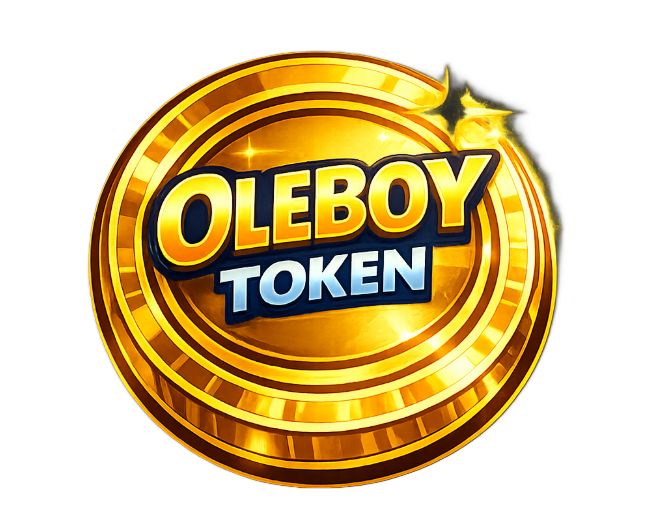
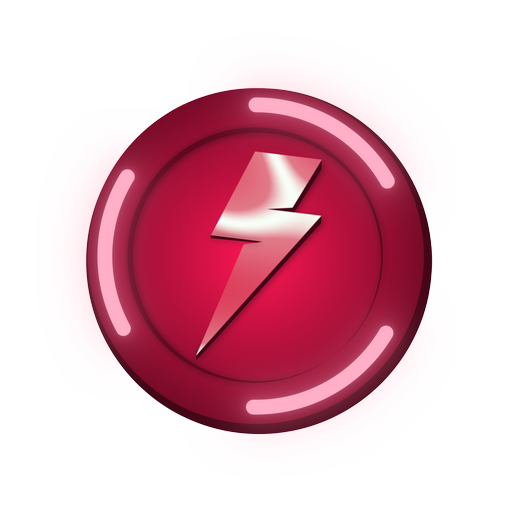
Use official OBT coin artwork everywhere
Replace the pink placeholder circles with the real coin PNG across the
whole site:
- Overwrite src/assets/coin-icon.png and src/assets/oleboy-coin.png so every
  consumer (CoinIcon, CoinDisplay, Header, Footer, LiveMatchesPanel,
  Leaderboard, WalletSnapshot, VIP modals, admin pages, profile settings)
  picks up the new artwork automatically.
- Add public/coin.png (resized to 512x512, ~240KB) as the canonical asset
  for direct <img src> references and for Stripe.
- Point the wallet purchase overlay coin badge and the mobile match-price
  icon at /coin.png instead of the old placeholder SVGs.
- Pass the coin image URL as Stripe product_data.images so the OBT coin
  appears in the Stripe Checkout line item.

diff --git a/src/contexts/WalletPurchaseContext.tsx b/src/contexts/WalletPurchaseContext.tsx
@@ -609,7 +609,7 @@ function CoinPackageButton({
       ) : null}
 
       <img
-        src="/figma-assets/wallet-overlay/coin-badge.svg"
+        src="/coin.png"
         alt=""
         aria-hidden
         style={{
@@ -618,6 +618,7 @@ function CoinPackageButton({
           top: '19px',
           width: '63px',
           height: '63px',
+          objectFit: 'contain',
         }}
       />
 

diff --git a/supabase/functions/create-checkout/index.ts b/supabase/functions/create-checkout/index.ts
@@ -105,6 +105,8 @@ serve(async (req) => {
       origin,
     });
 
+    const coinImageUrl = `${origin}/coin.png`;
+
     const session = await stripe.checkout.sessions.create({
       customer_email: user.email,
       // Stripe Checkout uses the Dashboard-configured dynamic payment methods
@@ -116,6 +118,7 @@ serve(async (req) => {
             product_data: {
               name: `${coinPackage.coins} Coins`,
               description: "OLEBOY TOKEN Gaming Coins",
+              images: [coinImageUrl],
             },
             unit_amount: Math.round(coinPackage.price * 100),
           },

diff --git a/src/components/home/HomeRegisteredMobile.tsx b/src/components/home/HomeRegisteredMobile.tsx
@@ -1066,7 +1066,7 @@ function ShopPrice({ price }: { price: string }) {
   const showCoinIcon = /^\d/.test(price);
   return (
     <div style={{ position: 'absolute', left: '10px', right: '10px', bottom: '10px', display: 'flex', alignItems: 'center', gap: '7px' }}>
-      {showCoinIcon ? <img src="/showreel/coin-icon.svg" alt="" aria-hidden style={{ width: '19px', height: '19px', flexShrink: 0 }} /> : null}
+      {showCoinIcon ? <img src="/coin.png" alt="" aria-hidden style={{ width: '19px', height: '19px', flexShrink: 0, objectFit: 'contain' }} /> : null}
       <span style={{ fontFamily: "'Base Neue Trial-ExpandedBold', 'Base Neue Trial', sans-serif", fontWeight: 700, fontSize: price.startsWith('EUR') ? '20px' : price.startsWith('LVL') ? '18px' : '25px', lineHeight: '29px', color: '#ffffff', whiteSpace: 'nowrap' }}>
         {price}
       </span>